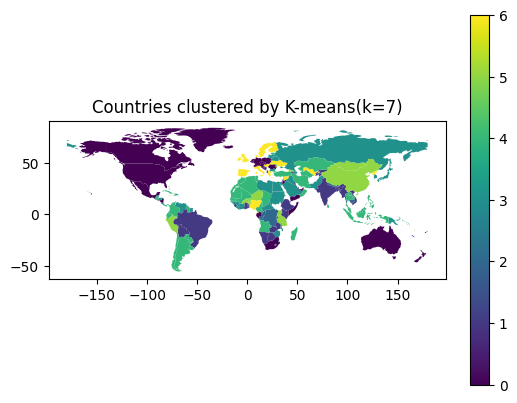
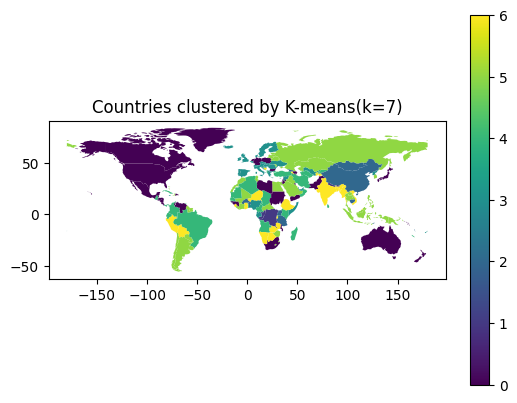
committing final changes

diff --git a/Assignment/CO2_Emission_Analysis.py b/Assignment/CO2_Emission_Analysis.py
@@ -1,3 +1,17 @@
+"""
+
+Analyzing country's CO2 emissions data using Apache Spark. 
+
+Source Code Authors:
+
+1) Naga Kartheek Reddy Kona : 219203205
+2) Kausik Kappaganthula : 219203215
+3) Sowjanya Chennamaneni:219203249
+4) Sri Sai Praveen Gadiyaram : 219203192
+5) Arun Anirudhan  : 219203285
+
+"""
+
 # _importing pyspark libraries
 from pyspark import SparkContext
 from pyspark.sql.session import SparkSession
@@ -161,7 +175,7 @@ def analysing_emissions_data(spark, co2_emisssion_data):
     co2_emisssion_data = vecAssembler.setHandleInvalid(
         "skip").transform(co2_emisssion_data)
 
-    # creating Kmeans object (5 clusters)
+    # creating Kmeans object (7 clusters)
     kmeans = KMeans(k=7)
 
     # clustering operation
@@ -183,8 +197,8 @@ def perform_correlation_analysis(co2_emisssion_data):
 
     # _look at average emissions for each income group
     co2_emisssion_data.show(5)
-    co2_emisssion_data.select("IncomeGroup", "2014").groupBy(
-        "IncomeGroup").agg(avg("2014").alias('average_emissions')).orderBy("average_emissions").show()
+    co2_emisssion_data.select("IncomeGroup", "change_in_emissions_scaled").groupBy(
+        "IncomeGroup").agg(avg("change_in_emissions_scaled").alias('average_change_in_emissions')).orderBy("average_change_in_emissions").show()
 
     # _perform correlation on country's decade change in emissions and income level
     corr_decade_change_income = co2_emisssion_data.stat.corr(
